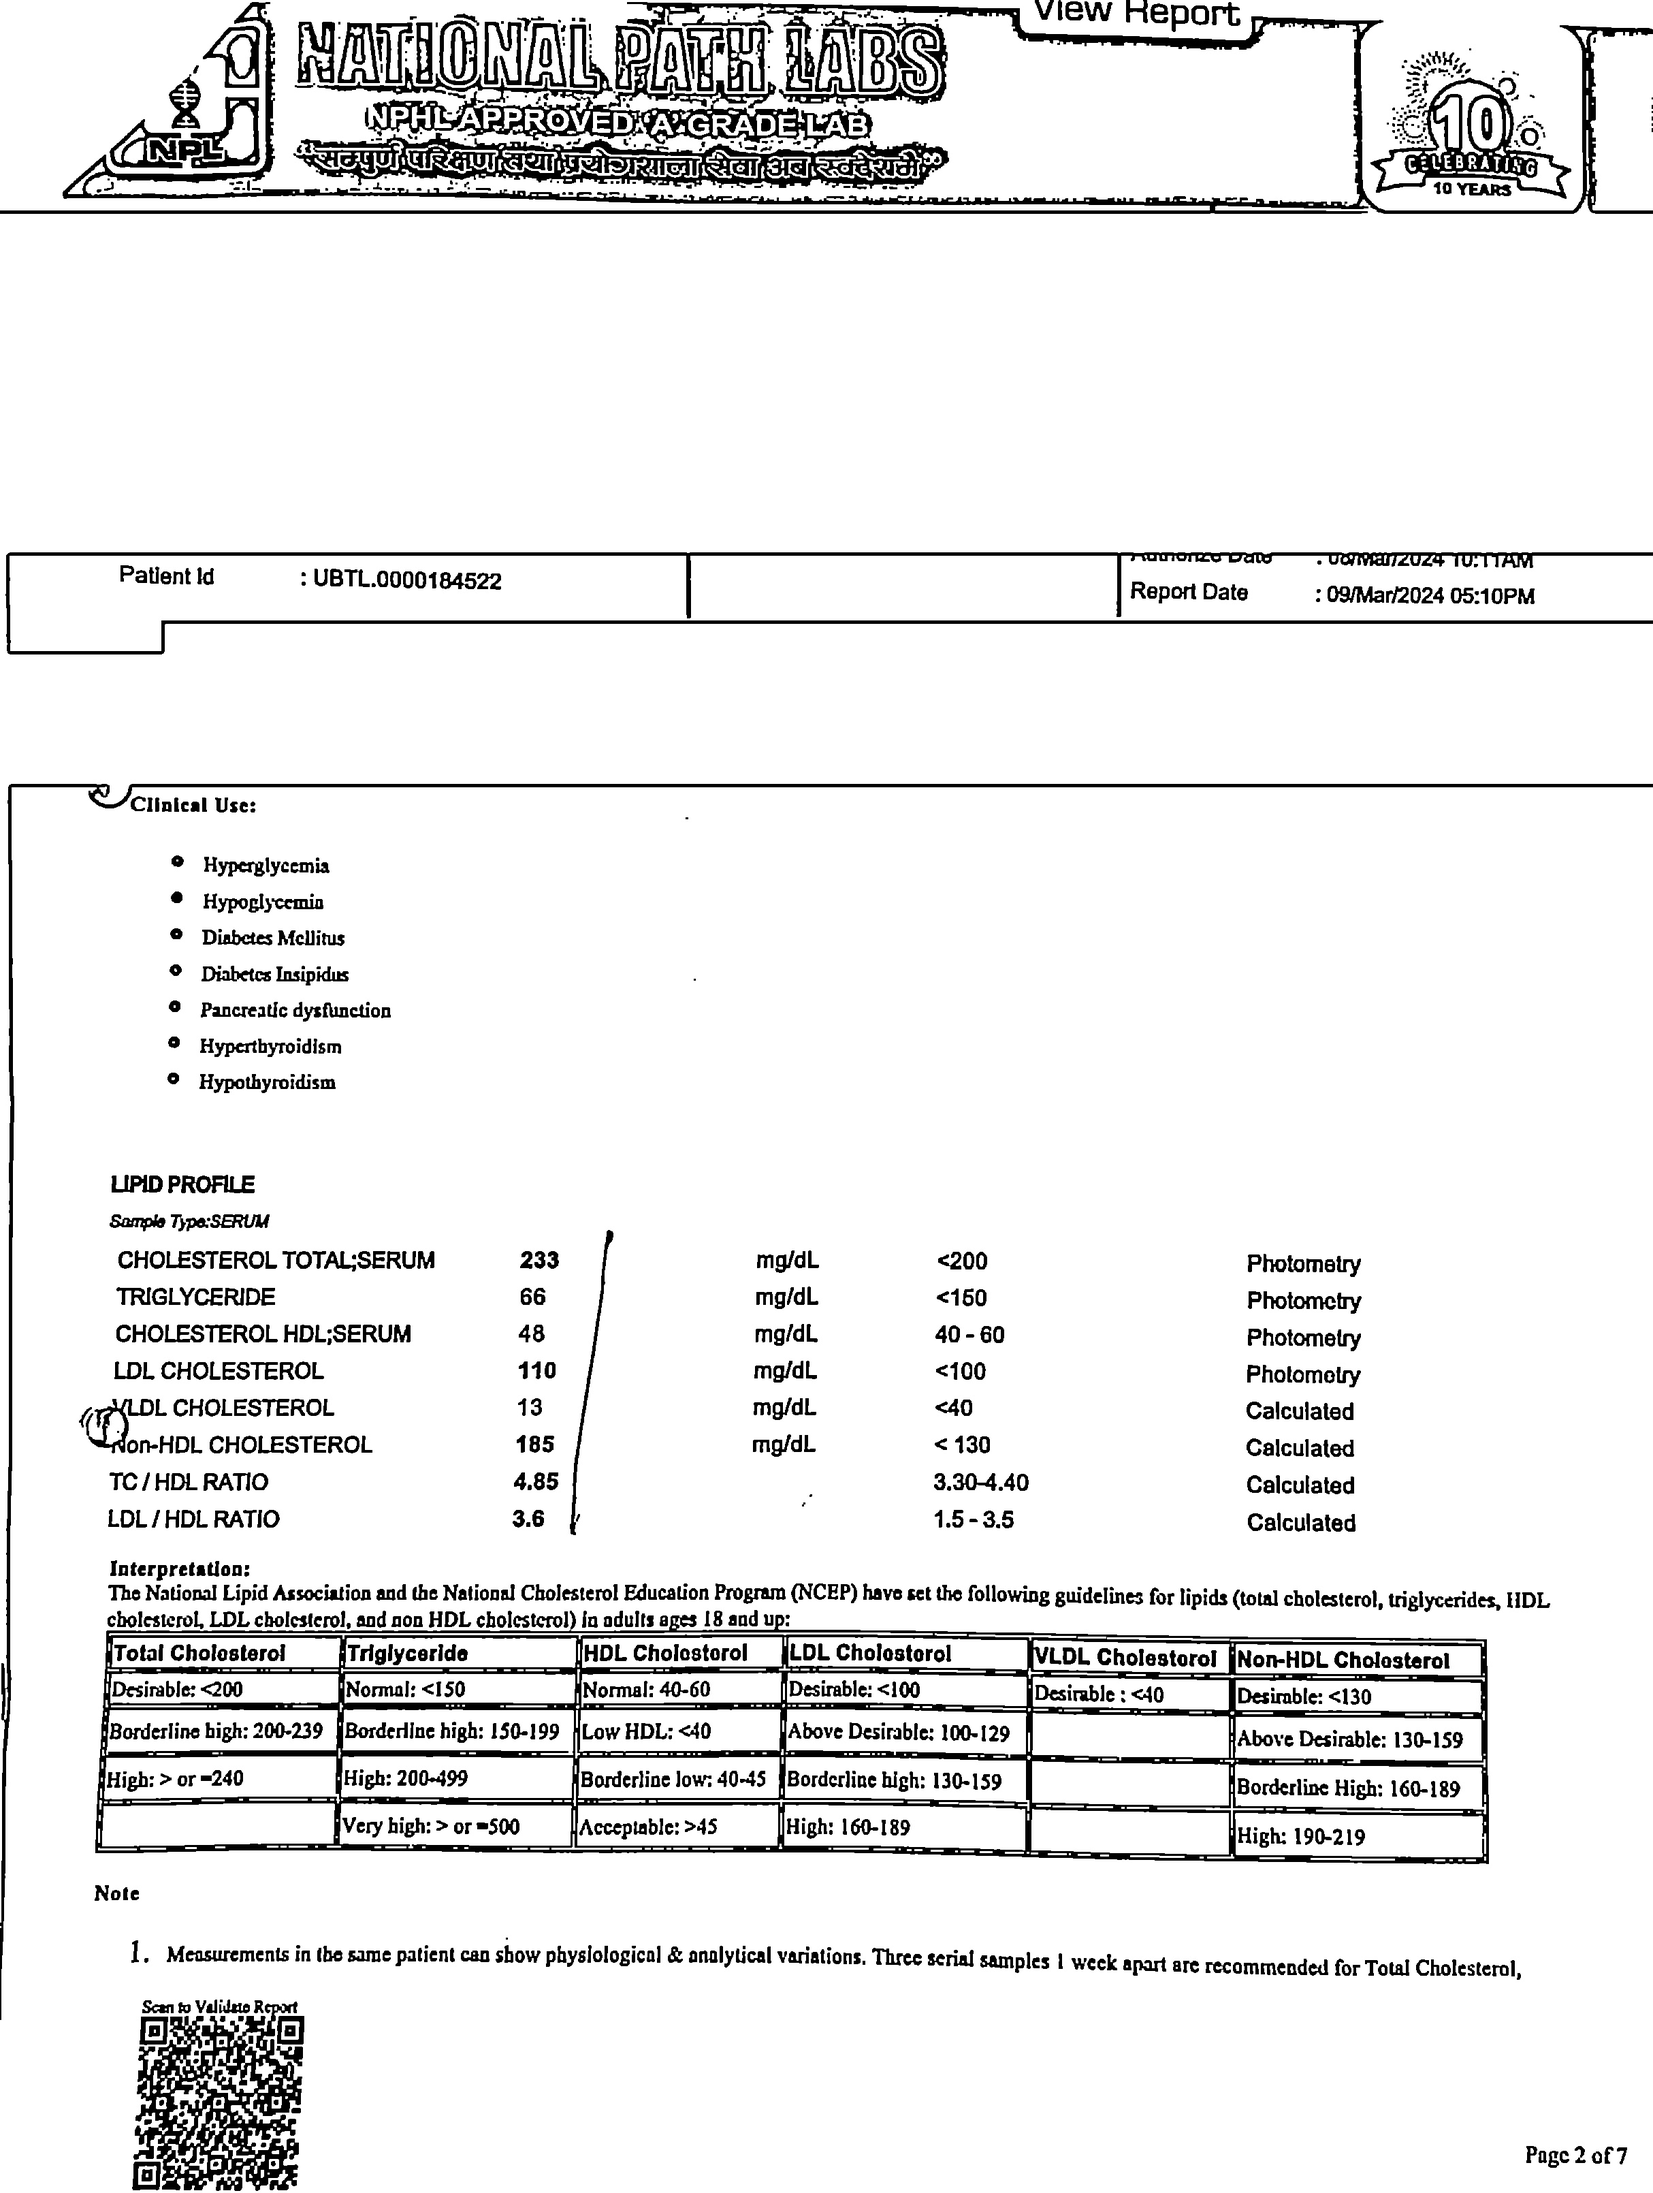
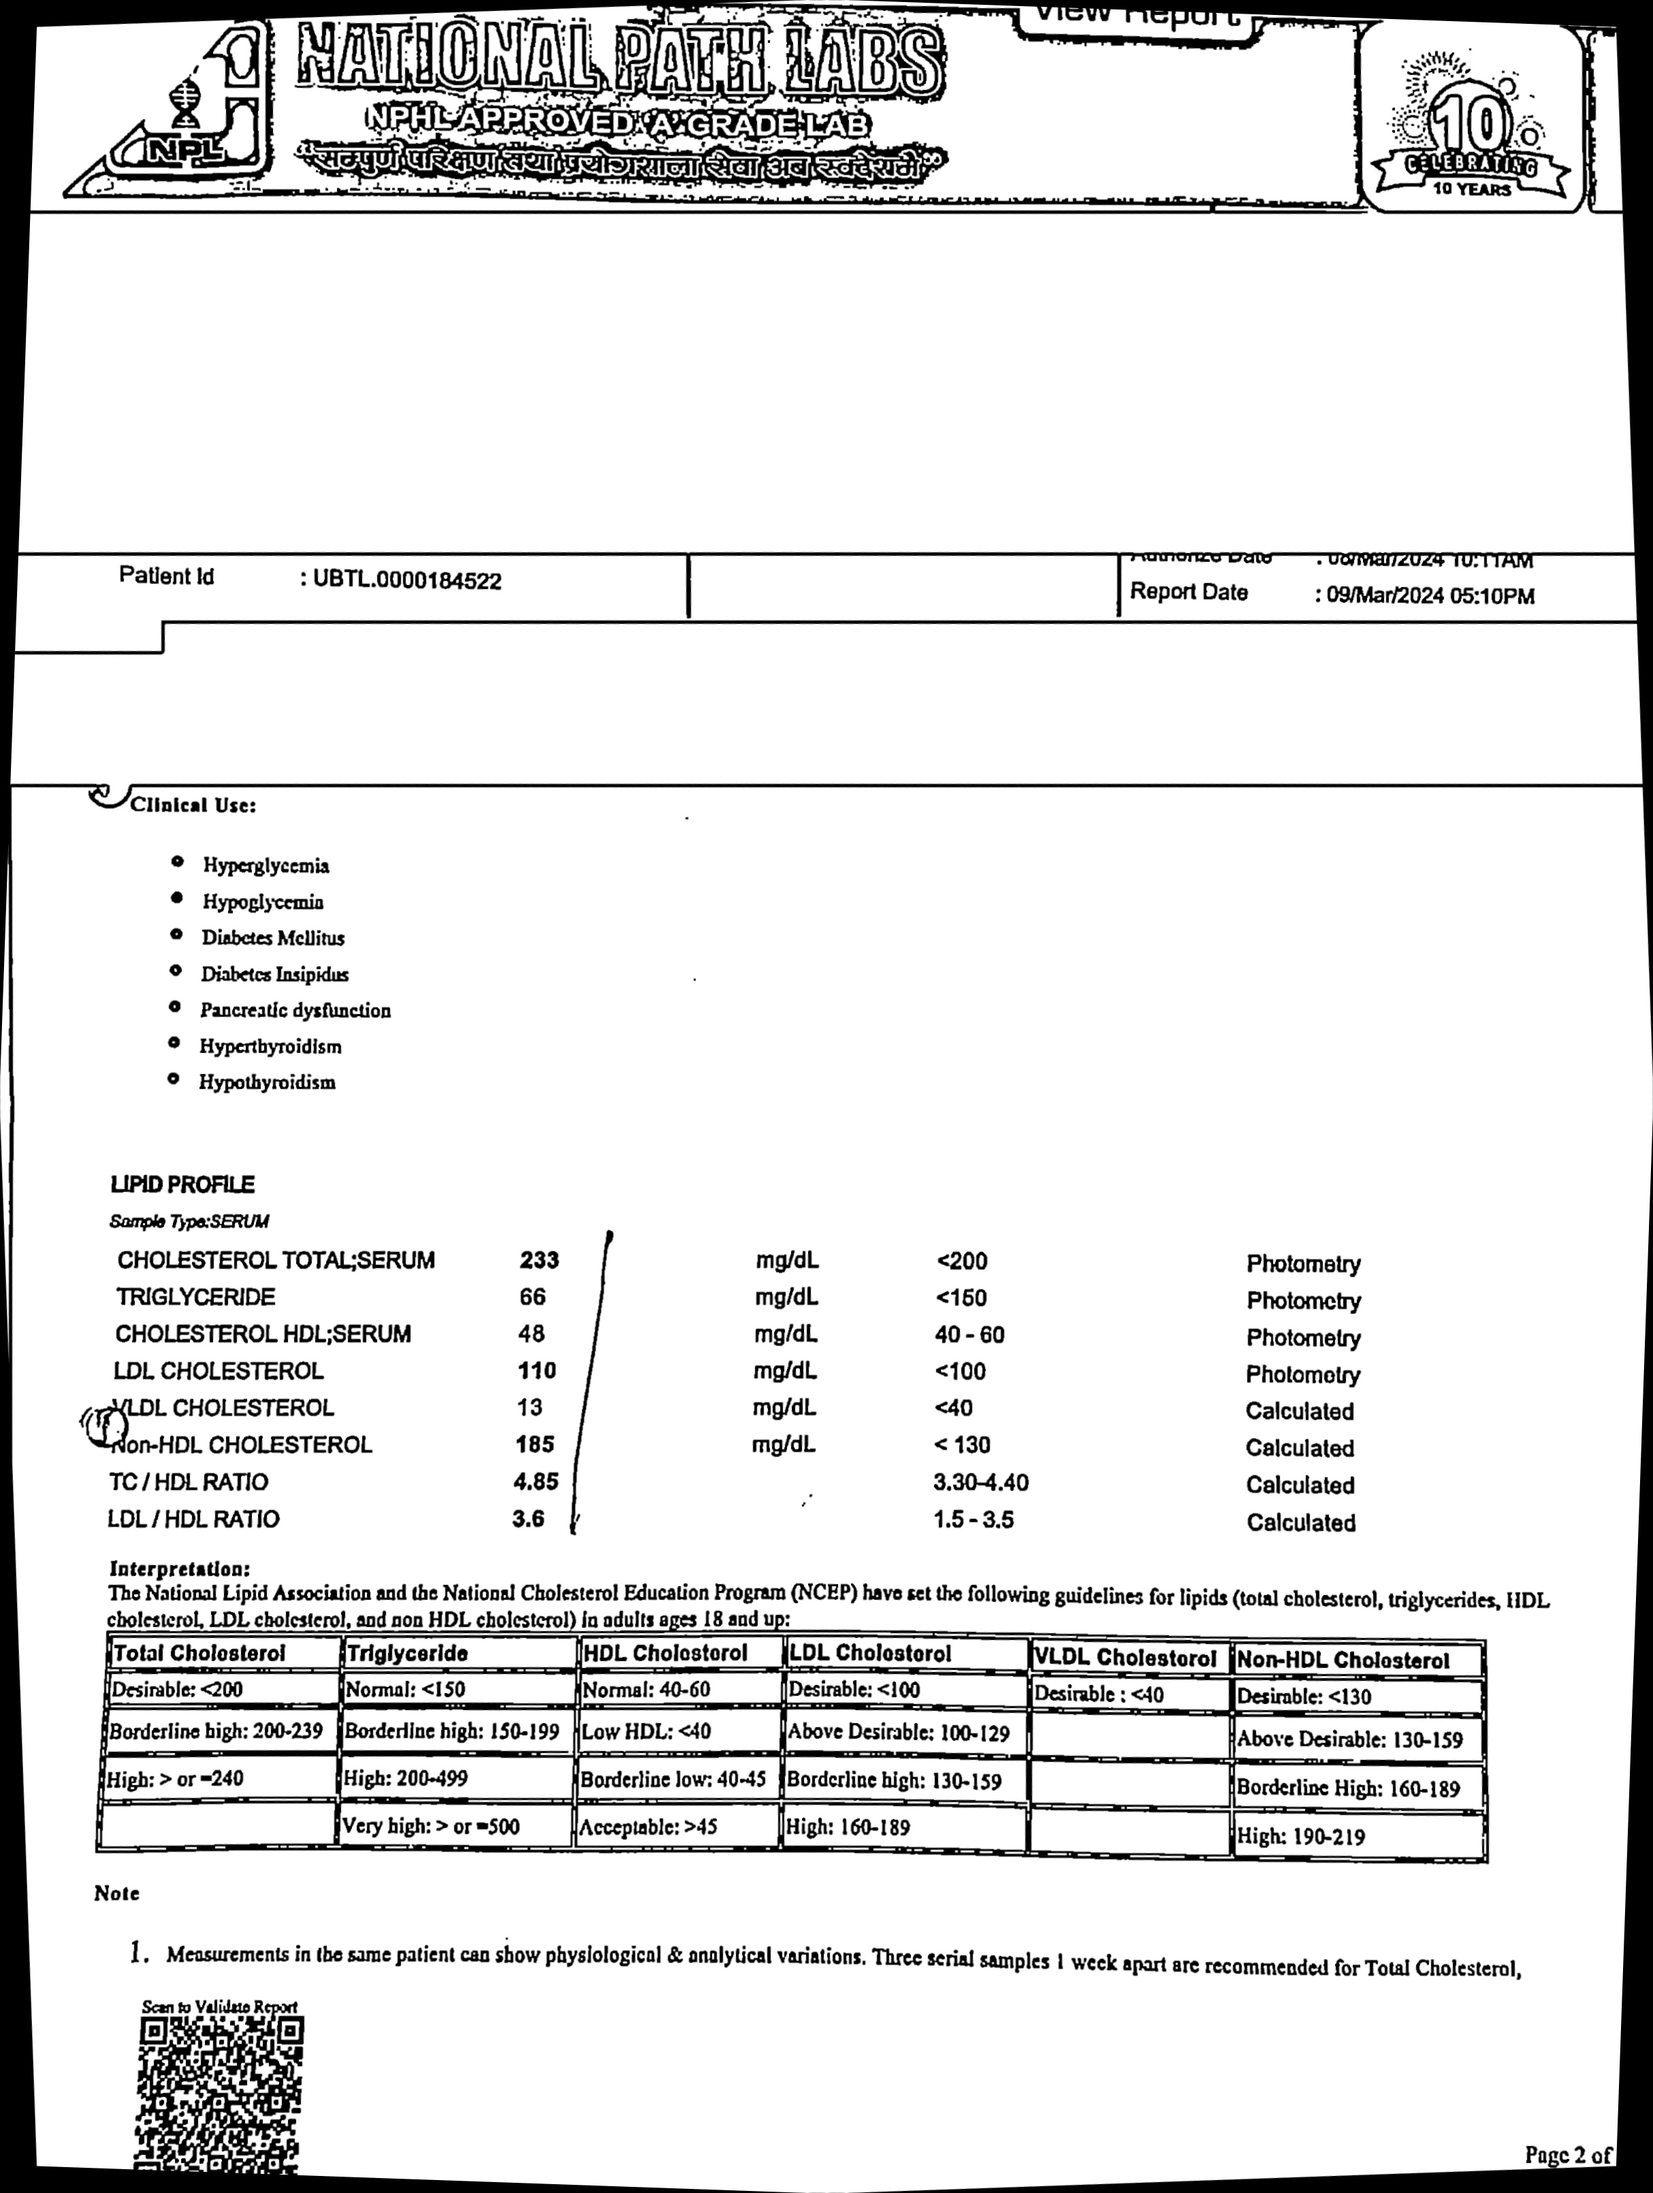
4 pass

diff --git a/identity.py b/identity.py
@@ -6,10 +6,10 @@ import cv2
 
 strings_to_check = ["name", "address", "addres", "adress", "age", "gender", "sex", "mane"]
 
-string_dict = {string: 0 for string in strings_to_check}
-
-def resetter(string_dict):
-    for key in string_dict:
+string_dict = {string: 0 for string in strings_to_check}  #yo dict ko indiviual key ko value change garera repitions herna milxa. aile chai sab ko 0 xa. eg ma name:0 (ani mane:0) vaesi    
+                                                            #euta name vetesi arko name blur gardaina (so aru kunai important data ma ni 'name' xa vane blur nahos vanera) aba name=mane:-1 rakhyo
+def resetter(string_dict):                                  #vane duita samma herxa and so on 
+    for key in string_dict: 
         string_dict[key] = 0
 
 
@@ -30,11 +30,11 @@ def blurrer(image):
     for i in range(len(text_data['text'])):
         text = text_data['text'][i]
         for str in strings_to_check:
-            if string_dict[str]==0:
+            if string_dict[str]<=0:                    
                 if str in text.lower():
-                    incx=5000                           #tweak these values to increase the size of the blur
-                    incy=200
-                    decx=1000
+                    incx=5000                           #tweak these values to change the size of the blur
+                    incy=200                            #inc x,incy=widhth, heigt of rectangle
+                    decx=1000                           #decx, decy=changes(decreases) the coordinates of kata bata suru garne hamro rectangle
                     decy=100
                     x=text_data['left'][i]
                     y=text_data['top'][i]
@@ -63,6 +63,11 @@ def identityremover(input_image_path,output_image_path):
     image=blurrer(image)
     image=preprocess.preprocess_for_ocr(image)      #comment out this line and line 65 for faster loading tara kunai kunai xutna sakne chance badi hunxaa
     image=blurrer(image)                            #ek choti preprocess nagari image blur garne ani tyo blur gareko lai feri preprocess garera blur garne
+    image=preprocess.skew_image(image,-2)           #2 degree left gareraa scan gareko feri 2 degree right garera scan gareko
+    image=blurrer(image)                            #comment out garda ni hunxa speed badxa dherai jaso ta yettikai scanned hunxa
+    image=preprocess.skew_image(image,+4)           #line 66-70 comment out garda speed badxa
+    image=blurrer(image)
+    image=preprocess.skew_image(image,-2)           #afai skew angle patta launa sake jhan ramro tara garoo layo tyo 
     resetter(string_dict)
     cv2.imwrite(output_image_path,image)
     return image                                       
@@ -71,4 +76,4 @@ def identityremover(input_image_path,output_image_path):
 
 
 
-#identityremover("reports_unedited/reports_6.jpg","helo.jpg")
+identityremover("nijiya.jpg","helo.jpg")

diff --git a/skew.py b/skew.py
@@ -1,0 +1,52 @@
+import numpy as np
+import cv2
+
+def getSkewAngle(cvImage) -> float:
+    # Prep image, copy, convert to gray scale, blur, and threshold
+    newImage = cvImage.copy()
+    gray = cv2.cvtColor(newImage, cv2.COLOR_BGR2GRAY)
+    blur = cv2.GaussianBlur(gray, (9, 9), 0)
+    thresh = cv2.threshold(blur, 0, 255, cv2.THRESH_BINARY_INV + cv2.THRESH_OTSU)[1]
+
+    # Apply dilate to merge text into meaningful lines/paragraphs.
+    # Use larger kernel on X axis to merge characters into single line, cancelling out any spaces.
+    # But use smaller kernel on Y axis to separate between different blocks of text
+    kernel = cv2.getStructuringElement(cv2.MORPH_RECT, (30, 5))
+    dilate = cv2.dilate(thresh, kernel, iterations=2)
+
+    # Find all contours
+    contours, hierarchy = cv2.findContours(dilate, cv2.RETR_LIST, cv2.CHAIN_APPROX_SIMPLE)
+    contours = sorted(contours, key = cv2.contourArea, reverse = True)
+    for c in contours:
+        rect = cv2.boundingRect(c)
+        x,y,w,h = rect
+        cv2.rectangle(newImage,(x,y),(x+w,y+h),(0,255,0),2)
+
+    # Find largest contour and surround in min area box
+    largestContour = contours[0]
+    print (len(contours))
+    minAreaRect = cv2.minAreaRect(largestContour)
+    cv2.imwrite("temp/boxes.jpg", newImage)
+    # Determine the angle. Convert it to the value that was originally used to obtain skewed image
+    angle = minAreaRect[-1]
+    if angle < -45:
+        angle = 90 + angle
+    return -1.0 * angle
+# Rotate the image around its center
+def rotateImage(cvImage, angle: float):
+    newImage = cvImage.copy()
+    (h, w) = newImage.shape[:2]
+    center = (w // 2, h // 2)
+    M = cv2.getRotationMatrix2D(center, angle, 1.0)
+    newImage = cv2.warpAffine(newImage, M, (w, h), flags=cv2.INTER_CUBIC, borderMode=cv2.BORDER_REPLICATE)
+    return newImage
+new=cv2.imread("nijiya.jpg")
+
+# Deskew image
+
+def deskew(cvImage):
+    angle = getSkewAngle(cvImage)
+    return rotateImage(cvImage, -1.0 * angle)
+fixed = deskew(new)
+
+cv2.imwrite("hell.jpg",fixed)

diff --git a/preprocess.py b/preprocess.py
@@ -20,8 +20,20 @@ def preprocess_for_ocr(image):
     
     inverted = cv2.bitwise_not(closing)
     
-    
+
     return inverted
+
+def skew_image(image, angle):
+    # Get image dimensions
+    height, width = image.shape[:2]
+    
+    # Calculate the rotation matrix
+    rotation_matrix = cv2.getRotationMatrix2D((width / 2, height / 2), angle, 1)
+    
+    # Apply the affine transformation
+    skewed_image = cv2.warpAffine(image, rotation_matrix, (width, height), flags=cv2.INTER_LINEAR, borderMode=cv2.BORDER_CONSTANT)
+    
+    return skewed_image
 
 
 
